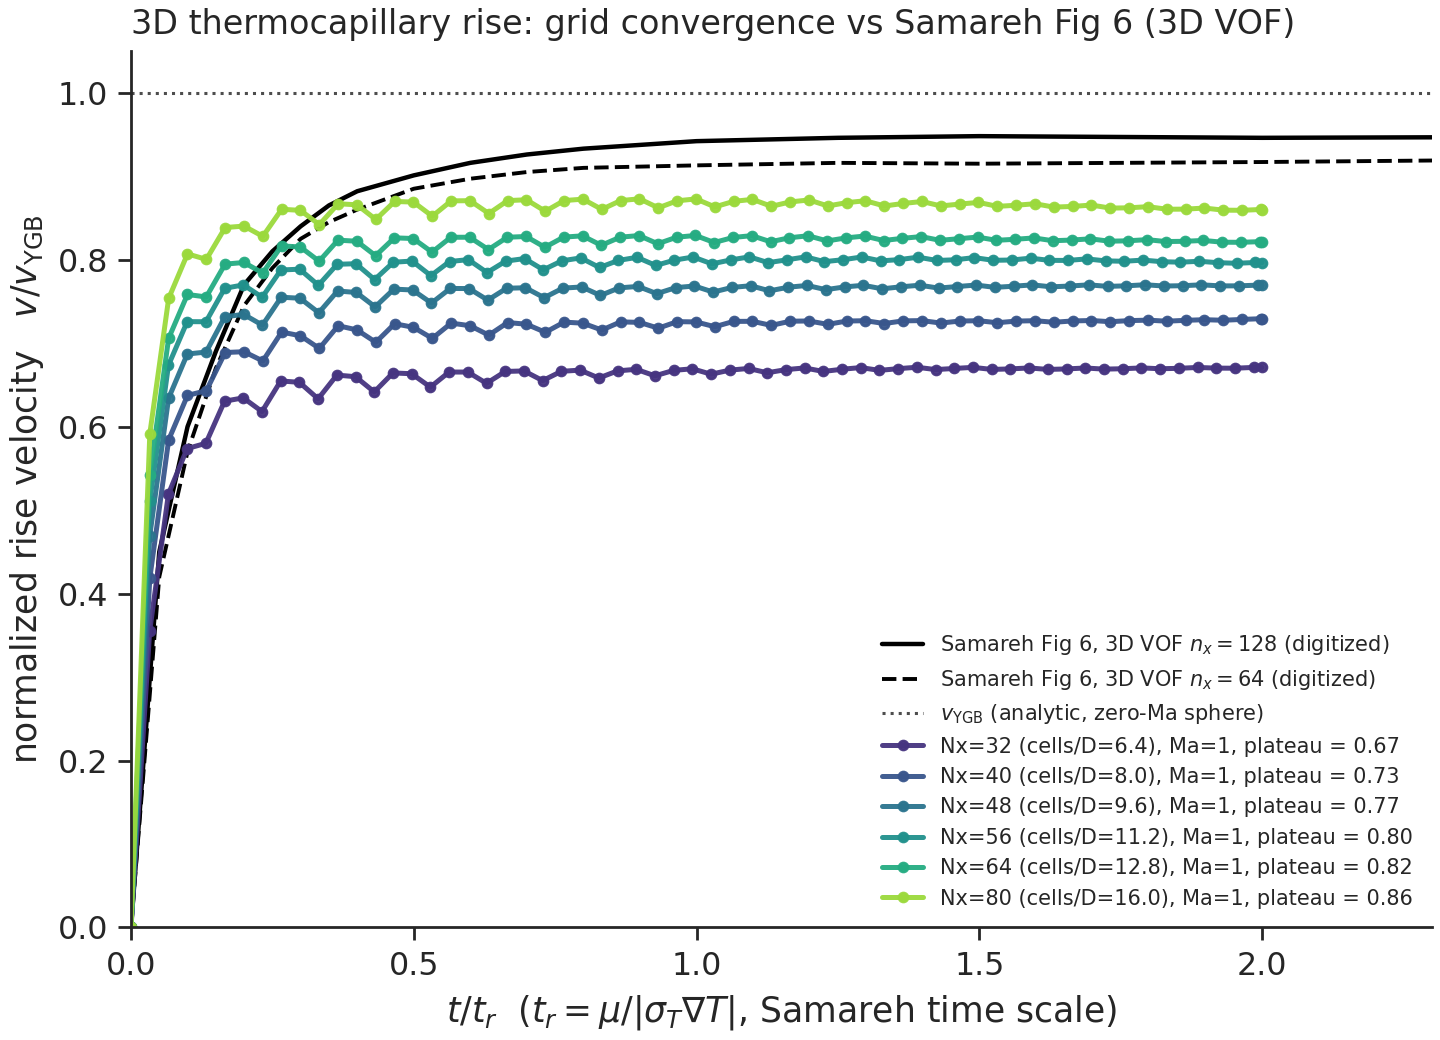
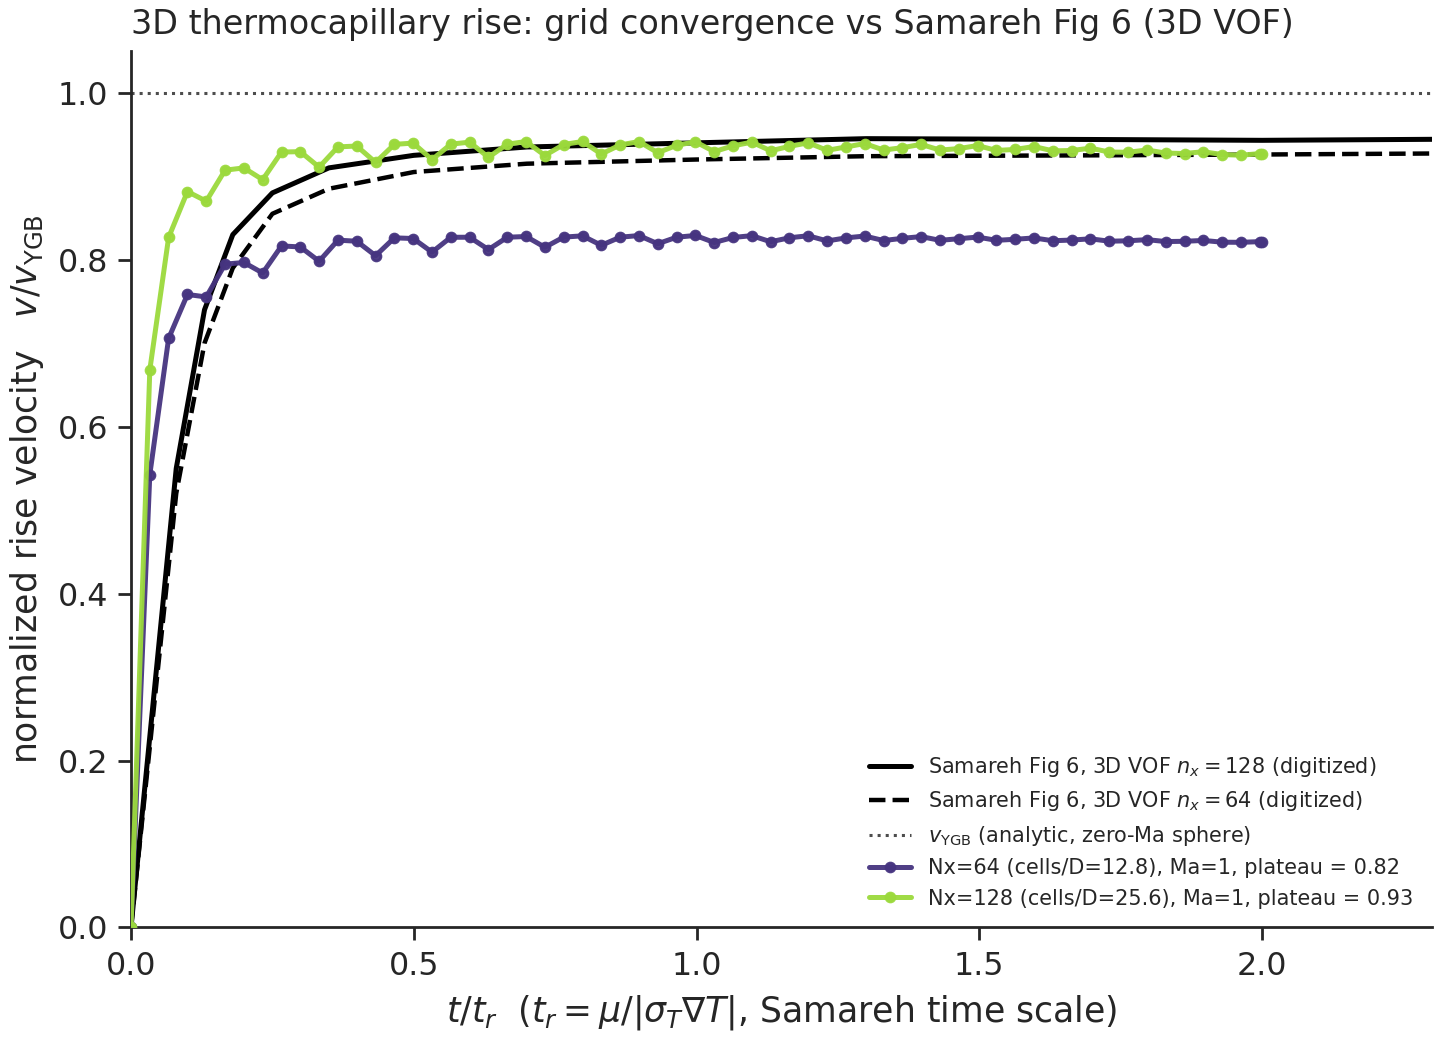
3D_thermocapillary_migration: add Nx=128 to grid-convergence figure
Nx=128 Ma=1 Samareh-box run (3.15M cells, 22485 steps, CPU/ifx 96 ranks) completed to
2 t_r: plateau v/v_YGB = 0.93, up from Nx=64's 0.82, overlapping Samareh Fig 6's nx128
VOF curve (~0.945) toward the ~0.95 zero-Ma YGB asymptote. Restore plot_fig5.py (grid-
convergence overlay, color=Nx on the Fig-6 axes) that regenerates fig5_3d_overlay.png.

diff --git a/examples/3D_thermocapillary_migration/plot_fig5.py b/examples/3D_thermocapillary_migration/plot_fig5.py
@@ -1,0 +1,108 @@
+#!/usr/bin/env python3
+"""Grid-convergence overlay for the 3D thermocapillary rise -> figures/fig5_3d_overlay.png.
+
+Draws the fixed-Ma=1 grid family (every runs/grid_ma/nx*/ma1 with restart data, coarse->fine, color =
+Nx) on Samareh's digitized Fig 6 (3D VOF) axes. As dx->0 the plateau climbs toward Samareh's converged
+~0.95 / the analytic zero-Ma YGB ceiling of 1.0. Reuses the 2D example's curve machinery
+(color_weighted_vy + v_ygb_ratio + PLATE_STYLE) so 3D runs land on the same v/v_YGB-vs-t/t_r axes.
+Unstable runs (max|v/v_YGB|>1.3) are drawn faded+dashed and flagged, not silently dropped. Skips
+incomplete leaves, so it can be re-run while a grid point is still in flight.
+
+Companion to plot_fig5_ma.py (the Marangoni-number sweep at fixed Nx). Usage: python3 plot_fig5.py
+"""
+
+import glob
+import os
+import re
+import sys
+
+import matplotlib
+
+matplotlib.use("Agg")
+import matplotlib.pyplot as plt
+import numpy as np
+
+HERE = os.path.dirname(os.path.abspath(__file__))
+TWO_D = os.path.abspath(os.path.join(HERE, "..", "2D_thermocapillary_migration"))
+sys.path.insert(0, TWO_D)
+from plot import PLATE_STYLE, color_weighted_vy, v_ygb_ratio  # noqa: E402
+
+FIGS = os.path.join(HERE, "figures")
+SWEEP = os.path.join(HERE, "runs", "grid_ma")
+
+# Samareh Fig 6 (3D VOF), v/v_YGB vs t/t_r, digitized from the published page-5 right panel (same
+# arrays as plot_fig5_ma.py): nx=128 (solid) plateaus ~0.945, nx=64 (dashed) ~0.928.
+SAMAREH_FIG6_NX128 = np.array([(0.00, 0.00), (0.08, 0.55), (0.13, 0.74), (0.18, 0.83), (0.25, 0.88), (0.35, 0.91), (0.5, 0.925), (0.7, 0.935), (1.0, 0.94), (1.3, 0.945), (1.7, 0.944), (2.0, 0.943), (2.5, 0.945), (3.0, 0.947)])
+SAMAREH_FIG6_NX64 = np.array([(0.00, 0.00), (0.08, 0.52), (0.13, 0.70), (0.18, 0.79), (0.25, 0.855), (0.35, 0.885), (0.5, 0.905), (0.7, 0.915), (1.0, 0.92), (1.3, 0.924), (1.7, 0.925), (2.0, 0.926), (2.5, 0.928), (3.0, 0.931)])
+
+
+def curve_of(run_dir):
+    """(x=t/t_r, y=v/v_YGB, plateau, unstable) or None if no data."""
+    out = color_weighted_vy(run_dir)
+    if out is None or len(out[0]) < 5:
+        return None
+    x, y = v_ygb_ratio(out)
+    unstable = float(np.max(np.abs(y))) > 1.3
+    win = y[(x >= 1.0) & (x <= 2.0)]
+    plateau = float(np.median(win)) if win.size else float(y[-1])
+    return x, y, plateau, unstable
+
+
+def discover():
+    """Completed (Nx, run_dir) at Ma=1, coarse->fine."""
+    runs = {}
+    for d in glob.glob(os.path.join(SWEEP, "nx*", "ma1")):
+        m = re.match(r"nx(\d+)$", os.path.basename(os.path.dirname(d)))
+        if m and os.path.isdir(os.path.join(d, "restart_data")):
+            runs[int(m.group(1))] = d
+    return sorted(runs.items())
+
+
+def main():
+    points = discover()
+    if not points:
+        sys.exit(f"no Ma=1 grid runs under {SWEEP}/nx*/ma1 yet")
+    nxs = [nx for nx, _ in points]
+    lo, hi = min(nxs), max(nxs)
+
+    os.makedirs(FIGS, exist_ok=True)
+    cmap = plt.get_cmap("viridis")
+    printed = []
+    with plt.rc_context(PLATE_STYLE):
+        fig, ax = plt.subplots(figsize=(7.2, 5.2), constrained_layout=True)
+        ax.plot(SAMAREH_FIG6_NX128[:, 0], SAMAREH_FIG6_NX128[:, 1], "-", color="0.0", lw=1.8, zorder=2, label=r"Samareh Fig 6, 3D VOF $n_x=128$ (digitized)")
+        ax.plot(SAMAREH_FIG6_NX64[:, 0], SAMAREH_FIG6_NX64[:, 1], "--", color="0.0", lw=1.6, zorder=2, label=r"Samareh Fig 6, 3D VOF $n_x=64$ (digitized)")
+        ax.axhline(1.0, color="0.3", lw=1.1, ls=":", zorder=1, label=r"$v_{\mathrm{YGB}}$ (analytic, zero-Ma sphere)")
+
+        for nx, d in points:
+            c = curve_of(d)
+            if c is None:
+                print(f"  skip nx{nx} {d} (no data)")
+                continue
+            x, y, plateau, unstable = c
+            frac = (nx - lo) / (hi - lo) if hi > lo else 0.85
+            color = cmap(0.15 + 0.7 * frac)
+            tag = f"Nx={nx} (cells/D={nx / 5:.1f}), Ma=1"
+            if unstable:
+                ax.plot(x, np.clip(y, -0.05, 1.1), "--", color=color, lw=1.0, alpha=0.4, zorder=3, label=f"{tag}  (unstable)")
+            else:
+                ax.plot(x, y, "-", marker="o", color=color, ms=3.2, lw=1.8, alpha=0.95, zorder=4, solid_capstyle="round", label=f"{tag}, plateau = {plateau:.2f}")
+            printed.append((nx, plateau, unstable))
+
+        ax.set_xlim(0.0, 2.3)
+        ax.set_ylim(0.0, 1.05)
+        ax.set_xlabel(r"$t / t_r$  ($t_r = \mu / |\sigma_T \nabla T|$, Samareh time scale)")
+        ax.set_ylabel(r"normalized rise velocity   $v / v_{\mathrm{YGB}}$")
+        ax.set_title(r"3D thermocapillary rise: grid convergence vs Samareh Fig 6 (3D VOF)", fontsize=12, loc="left")
+        ax.legend(loc="lower right", fontsize=7.5, frameon=False, ncol=1)
+        dst = os.path.join(FIGS, "fig5_3d_overlay.png")
+        fig.savefig(dst, dpi=200)
+        plt.close(fig)
+        print(f"  wrote {dst}  ({len(printed)} curve(s))")
+    print(f"\n  {'Nx':>4} {'plateau':>8}  note")
+    for nx, pl, unstable in printed:
+        print(f"  {nx:>4} {pl:>8.3f}  {'UNSTABLE' if unstable else ''}")
+
+
+if __name__ == "__main__":
+    main()
